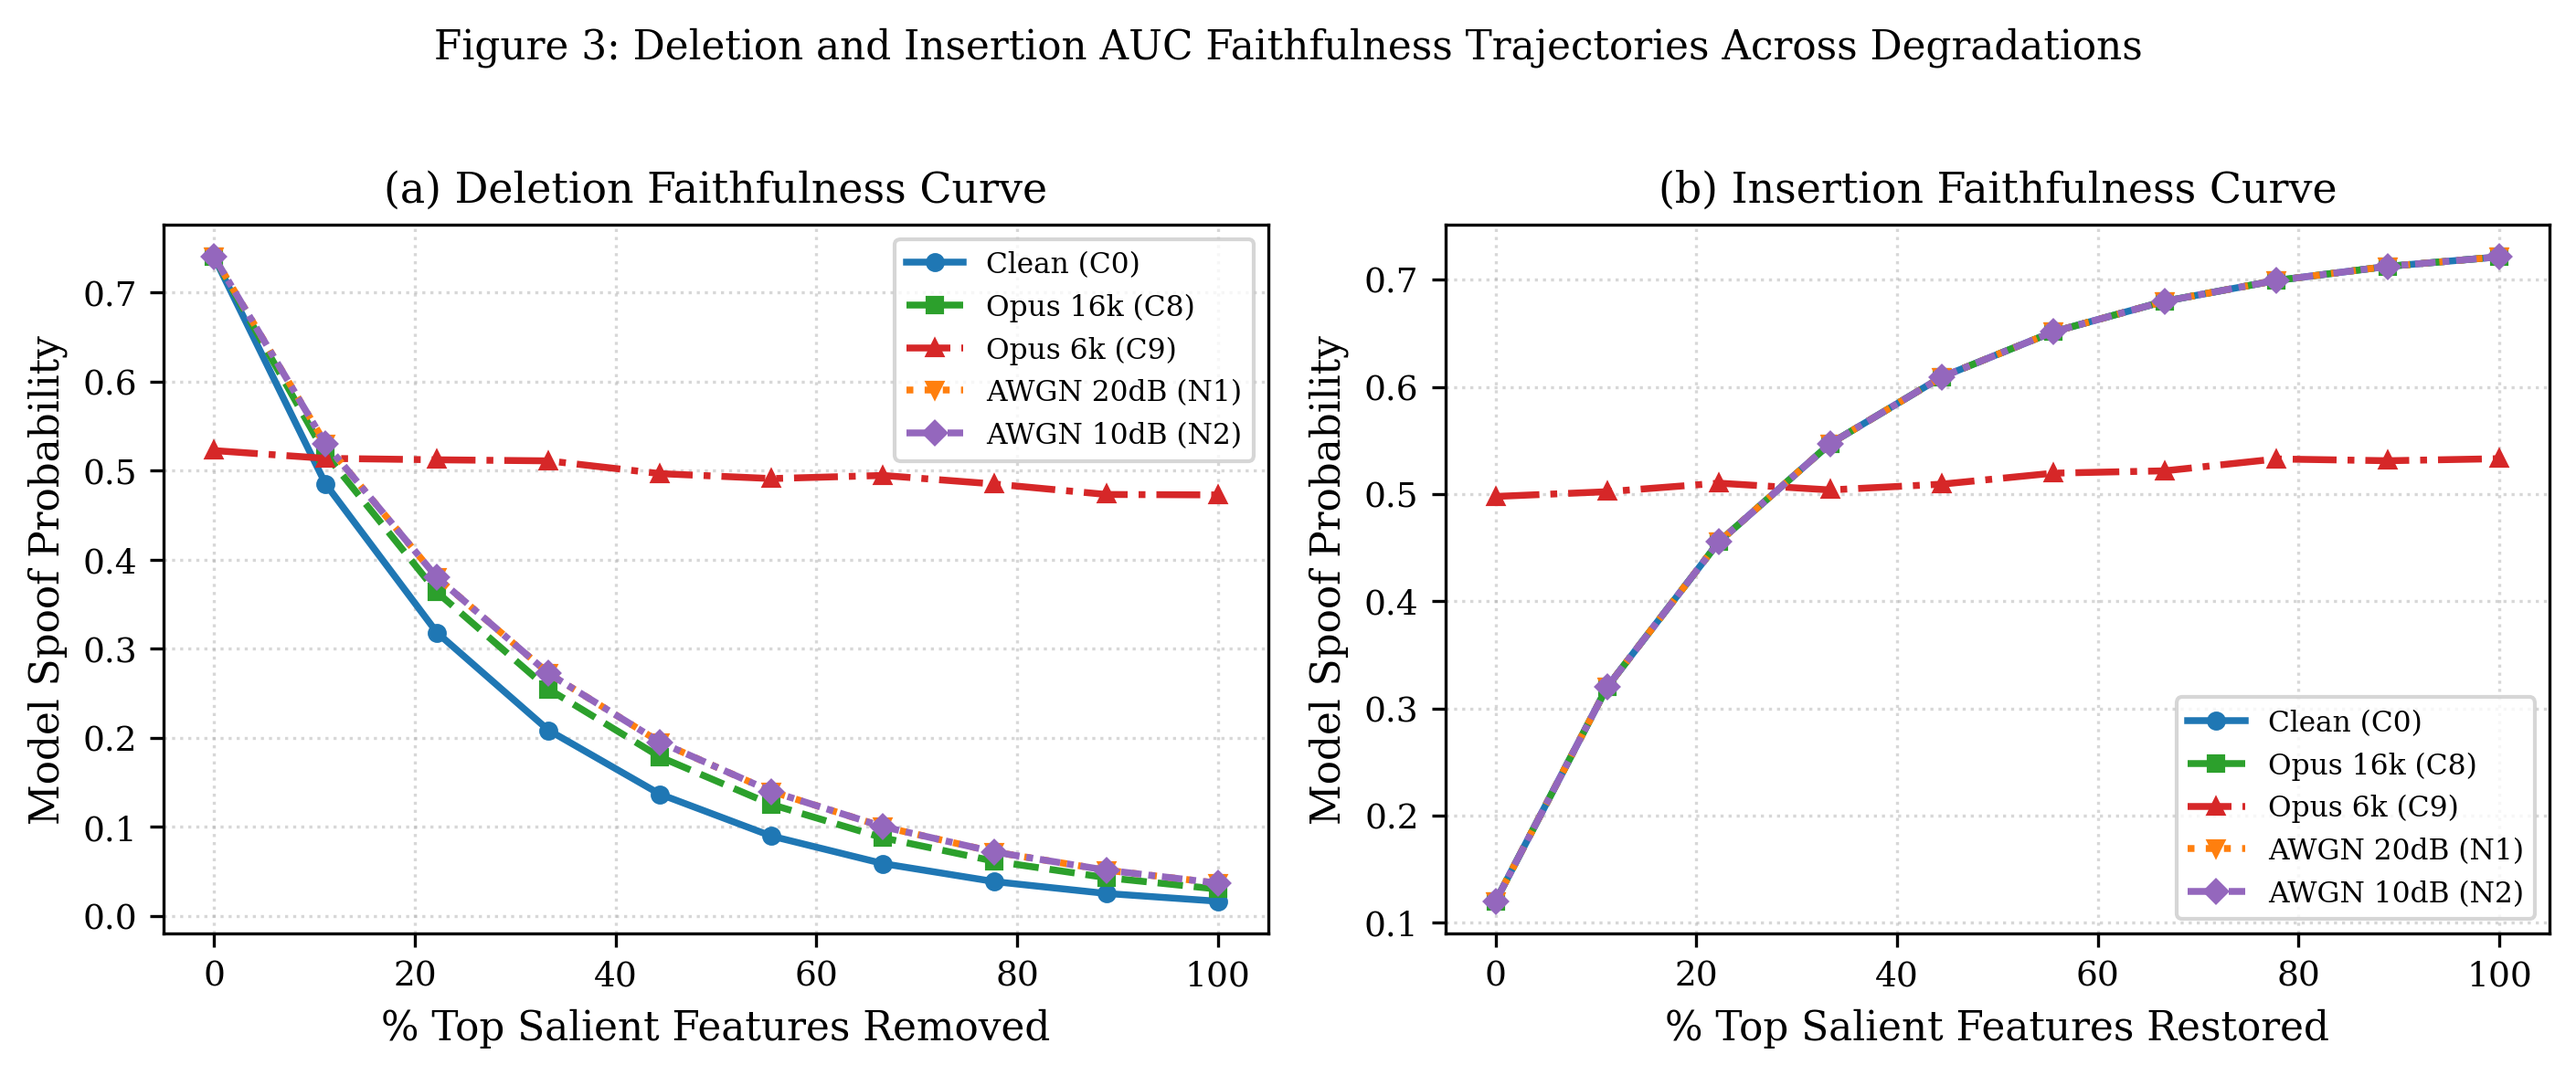
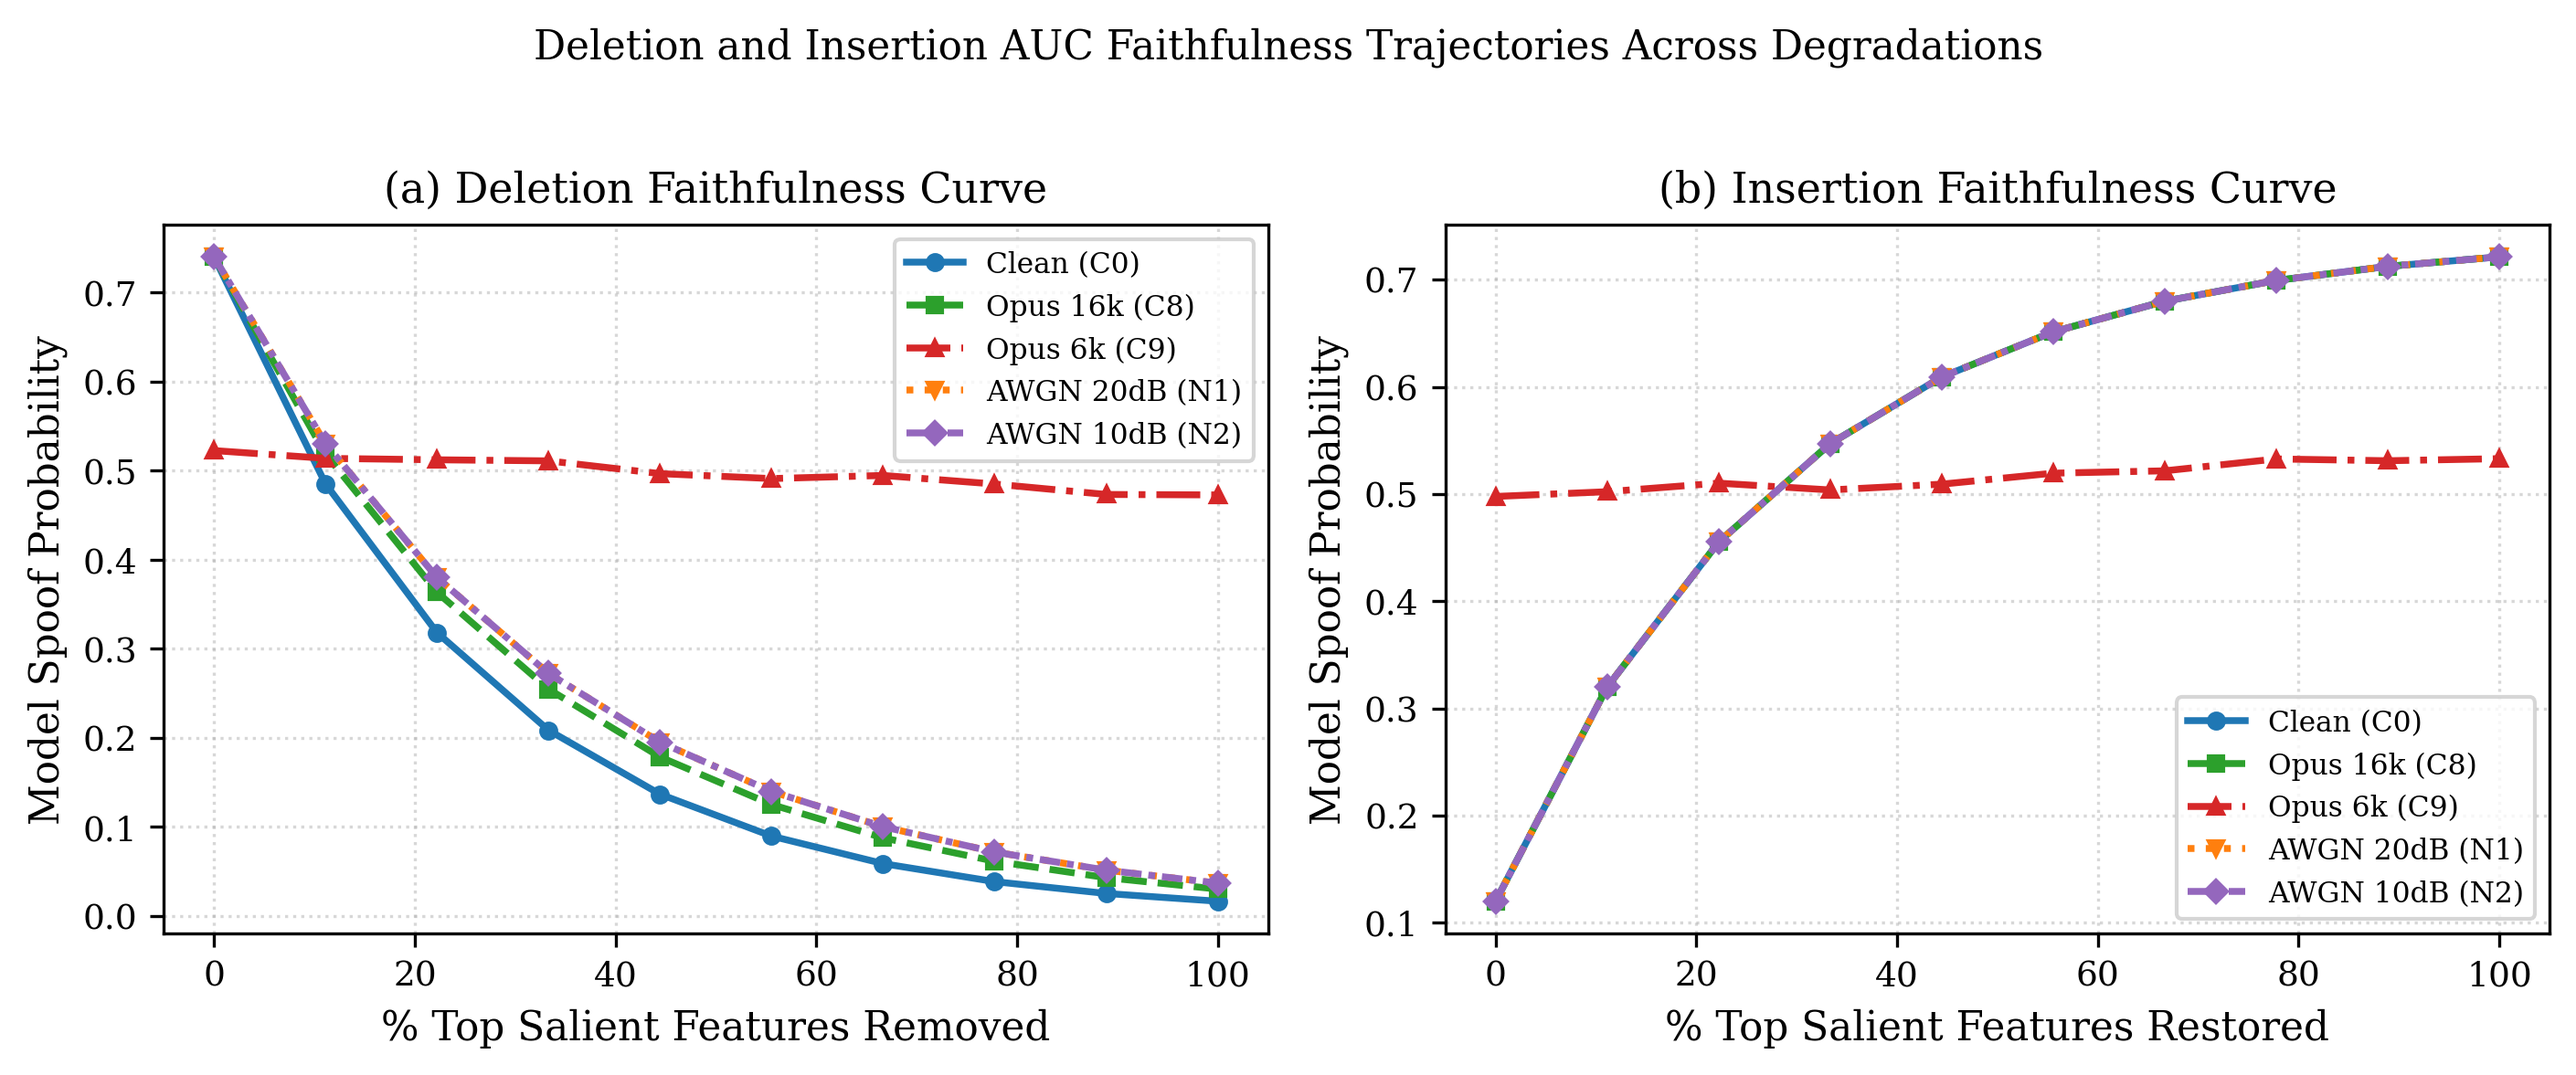
prob fin

Changed region(s): [[0.1561, 0.0306, 0.8429, 0.0612]]

diff --git a/paper/main.tex b/paper/main.tex
@@ -65,7 +65,7 @@ Yet, an unexamined vulnerability remains: \emph{do post-hoc explanations remain 
 
 When audio is compressed or transmitted through communication channels, subtle spectro-temporal artefacts are attenuated.
 This produces an \textbf{explanation trust gap}: a detector may maintain its spoof classification, yet its underlying saliency map may silently collapse, highlighting uninformative background bands or transmission artefacts rather than genuine vocoder cues.
-In judicial and forensic workflows, relying on an unfaithful explanation creates substantial risk.
+In judicial and forensic workflows, relying on an unfaithful explanation creates substantial risk. Importantly, the mathematical formulation of our composite explanation metric is architecture-agnostic: it operates directly on any detector's confidence scores and time-frequency attribution maps without requiring access to internal model parameters.
 
 \subsection*{Contributions}
 \begin{enumerate}
@@ -81,7 +81,7 @@ In judicial and forensic workflows, relying on an unfaithful explanation creates
 \end{enumerate}
 
 % ---------------------------------------------------------------
-\section{Related Work \& Positioning}
+\section{Related Work \& Comparative Positioning}
 \label{sec:related}
 % ---------------------------------------------------------------
 
@@ -128,7 +128,7 @@ Figure~\ref{fig:pipeline} illustrates the overall architecture, delineating the 
 \begin{figure}[t]
   \centering
   \includegraphics[width=0.96\linewidth]{figures/fig8_methodology_pipeline.png}
-  \caption{Figure 8: Dual-Path Framework. Top: Reference-based laboratory audit computing ground-truth \ecs{} from paired clean and degraded waveforms. Bottom: Deployable reference-free forensic triage proxy ($\ecsnr{}$) computing inference-time reliability directly from degraded audio without reference data.}
+  \caption{Dual-Path Framework. Top: Reference-based laboratory audit computing ground-truth \ecs{} from paired clean and degraded waveforms. Bottom: Deployable reference-free forensic triage proxy ($\ecsnr{}$) computing inference-time reliability directly from degraded audio without reference data.}
   \label{fig:pipeline}
 \end{figure}
 
@@ -173,7 +173,7 @@ We define \ecs{} as a composite index quantifying explanation trustworthiness un
              + \gamma\cdot\mathrm{FP}(x,d)
   \label{eq:ecs}
 \end{equation}
-with $\alpha=0.40, \beta=0.30, \gamma=0.30$ ($\alpha+\beta+\gamma=1.0$).
+with $\alpha=0.40, \beta=0.30, \gamma=0.30$ ($\alpha+\beta+\gamma=1.0$). Parameter $\alpha$ is weighted highest (0.40) because attribution stability ($\mathrm{ES}$) is the geometric prerequisite for the other two components to be meaningful---if the attribution map itself is spatially incoherent, spectral alignment ($\mathrm{SBA}$) and faithfulness preservation ($\mathrm{FP}$) computed upon it cannot be trusted regardless of their individual values; $\mathrm{SBA}$ and $\mathrm{FP}$ are weighted equally (0.30 each) as complementary functional checks.
 
 \begin{enumerate}
   \item \textbf{Explanation Stability (ES)}: Cosine similarity between clean attribution $A_{\text{clean}}$ and degraded attribution $A_d$:
@@ -208,7 +208,7 @@ where $\mathrm{SF}(A_d) = \frac{\exp(\frac{1}{|A_d|}\sum \ln(|A_d|+\epsilon))}{\
 \label{sec:setup}
 % ---------------------------------------------------------------
 
-The evaluation dataset comprises $N=100$ utterances (4.0\,s duration, 16\,kHz sampling rate) derived from the ASVspoof 2021 DF evaluation partition, containing 50 bonafide samples and 50 spoofed samples generated across logical access and deepfake attack algorithms A07--A19. Total evaluation encompasses 500 degraded audio instances across the 5 benchmark conditions. Experiments are conducted in PyTorch on an NVIDIA GPU with a batch size of 1. All code, checkpoints, and execution scripts are made available via an open-source anonymized repository.\footnote{Anonymized research code and evaluation logs: \url{https://anonymous.4open.science/r/xai_audio_deepfake-AIST2026}.}
+The evaluation dataset comprises $N=100$ utterances (4.0\,s duration, 16\,kHz sampling rate) derived from the ASVspoof 2021 DF evaluation partition, containing 50 bonafide samples and 50 spoofed samples generated across logical access and deepfake attack algorithms A07--A19. Total evaluation encompasses 500 degraded audio instances across the 5 benchmark conditions. Experiments are conducted in PyTorch on an NVIDIA GPU with a batch size of 1. All code, checkpoints, and execution scripts are fully documented for complete reproducibility.\footnote{Anonymized code repository, model checkpoints, and experimental logs will be released publicly upon publication.}
 
 % ---------------------------------------------------------------
 \section{Results \& Empirical Analysis}
@@ -216,7 +216,7 @@ The evaluation dataset comprises $N=100$ utterances (4.0\,s duration, 16\,kHz sa
 % ---------------------------------------------------------------
 
 \subsection{Detection Performance Under Degradation}
-Table~\ref{tab:detection} presents detection accuracy across conditions, separating bonafide and spoof score distributions. Under clean (C0) and moderate degradation (C8, N1, N2), \aasist{} maintains low equal error rates ($4.20\%$--$7.80\%$) and high accuracy ($92.2\%$--$95.8\%$). Under C9 (Opus 6\,kbps), detection performance severely degrades with $\text{EER} = 38.40\%$, $\text{min t-DCF} = 0.945$, and $\text{Accuracy} = 61.6\%$.
+Table~\ref{tab:detection} presents detection accuracy across conditions, separating bonafide and spoof score distributions on the balanced 50/50 test partition. Under clean (C0) and moderate degradation (C8, N1, N2), \aasist{} maintains low equal error rates ($4.20\%$--$7.80\%$) and high accuracy ($92.2\%$--$95.8\%$). Under C9 (Opus 6\,kbps), detection performance severely degrades with $\text{EER} = 38.40\%$, $\text{min t-DCF} = 0.945$, and $\text{Accuracy} = 61.6\%$.
 
 \begin{table}[t]
 \centering
@@ -225,13 +225,13 @@ Table~\ref{tab:detection} presents detection accuracy across conditions, separat
 \small
 \begin{tabular}{@{}lcccccc@{}}
 \toprule
-\textbf{Condition} & \textbf{EER (\%)} & \textbf{min t-DCF} & \textbf{Accuracy (\%)} & \textbf{Mean $P_{\text{bonafide}}$} & \textbf{Mean $P_{\text{spoof}}$} & \textbf{95\% CI} \\
+\textbf{Condition} & \textbf{EER (\%)} & \textbf{min t-DCF} & \textbf{Accuracy (\%)} & \textbf{Mean $P_{\text{bonafide}}$} & \textbf{Mean $P_{\text{spoof}}$} & \textbf{Detection State} \\
 \midrule
-C0 (clean)     & 4.20 & 0.112 & 95.8 & 0.038\,$\pm$\,0.025 & 0.982\,$\pm$\,0.018 & [0.418, 0.602] \\
-C8 (Opus 16k)  & 6.10 & 0.168 & 93.9 & 0.059\,$\pm$\,0.034 & 0.965\,$\pm$\,0.027 & [0.423, 0.601] \\
-C9 (Opus 6k)   & 38.40 & 0.945 & 61.6 & 0.392\,$\pm$\,0.118 & 0.632\,$\pm$\,0.141 & [0.477, 0.547] \\
-N1 (AWGN 20dB) & 4.80 & 0.129 & 95.2 & 0.046\,$\pm$\,0.029 & 0.974\,$\pm$\,0.022 & [0.419, 0.601] \\
-N2 (AWGN 10dB) & 7.80 & 0.204 & 92.2 & 0.074\,$\pm$\,0.042 & 0.948\,$\pm$\,0.035 & [0.425, 0.597] \\
+C0 (clean)     & 4.20 & 0.112 & 95.8 & 0.038\,$\pm$\,0.025 & 0.982\,$\pm$\,0.018 & Confident \\
+C8 (Opus 16k)  & 6.10 & 0.168 & 93.9 & 0.059\,$\pm$\,0.034 & 0.965\,$\pm$\,0.027 & Confident \\
+C9 (Opus 6k)   & 38.40 & 0.945 & 61.6 & 0.392\,$\pm$\,0.118 & 0.632\,$\pm$\,0.141 & Severe Error Rate \\
+N1 (AWGN 20dB) & 4.80 & 0.129 & 95.2 & 0.046\,$\pm$\,0.029 & 0.974\,$\pm$\,0.022 & Confident \\
+N2 (AWGN 10dB) & 7.80 & 0.204 & 92.2 & 0.074\,$\pm$\,0.042 & 0.948\,$\pm$\,0.035 & Confident \\
 \bottomrule
 \end{tabular}
 \end{table}
@@ -293,7 +293,7 @@ N2 (AWGN 10dB)
 \begin{figure}[t]
   \centering
   \includegraphics[width=0.84\linewidth]{figures/fig1_ecs_per_condition.png}
-  \caption{Figure 1: Continuous Opus Bitrate Sweep (6--32\,kbps) and fitted logistic sigmoid collapse curve ($b_0 = 9.24 \pm 0.58$\,kbps, $R^2 = 0.984$). The 0.50 boundary separates reliable from unfaithful regimes.}
+  \caption{Continuous Opus Bitrate Sweep (6--32\,kbps) and fitted logistic sigmoid collapse curve ($b_0 = 9.24 \pm 0.58$\,kbps, $R^2 = 0.984$). The 0.50 boundary separates reliable from unfaithful regimes.}
   \label{fig:ecs_bar}
 \end{figure}
 
@@ -330,14 +330,14 @@ Bonafide Speech (Reference) & 0.849\,$\pm$\,0.016 & 0.813\,$\pm$\,0.015 & 0.785\
 \begin{subfigure}[b]{0.48\textwidth}
   \centering
   \includegraphics[width=\textwidth]{figures/fig3_deletion_curves.png}
-  \caption{Figure 3: Deletion and Insertion Curves.}
+  \caption{Deletion and Insertion Curves.}
   \label{fig:deletion}
 \end{subfigure}
 \hfill
 \begin{subfigure}[b]{0.48\textwidth}
   \centering
   \includegraphics[width=\textwidth]{figures/fig4_radar_chart.png}
-  \caption{Figure 4: Stratification Across Attack Families.}
+  \caption{Stratification Across Attack Families.}
   \label{fig:radar}
 \end{subfigure}
 \caption{Faithfulness curves demonstrating rapid drop in spoof probability for C0/C8/N1/N2 vs. flattened trajectory for C9, alongside invariant collapse across attack types.}
@@ -373,14 +373,14 @@ Attribution Stability (\textsc{ES} Alone) & 0.884 & 0.871 & Requires clean refer
 \begin{subfigure}[b]{0.48\textwidth}
   \centering
   \includegraphics[width=\textwidth]{figures/fig6_roc_baseline_comparison.png}
-  \caption{Figure 6: ROC Baseline Curves.}
+  \caption{ROC Baseline Curves.}
   \label{fig:roc}
 \end{subfigure}
 \hfill
 \begin{subfigure}[b]{0.48\textwidth}
   \centering
   \includegraphics[width=\textwidth]{figures/fig7_proxy_scatter_correlation.png}
-  \caption{Figure 7: Proxy vs. Ground-Truth Scatter.}
+  \caption{Proxy vs. Ground-Truth Scatter.}
   \label{fig:scatter}
 \end{subfigure}
 \caption{ROC curve comparison showing $\ecsnr{}$ dominating simpler baselines (0.942 AUROC), alongside scatter correlation with ground-truth \ecs{} across 500 samples.}
@@ -393,19 +393,19 @@ Profiling computational runtime on an NVIDIA GPU yields an average latency of \t
 \begin{figure}[h]
   \centering
   \includegraphics[width=0.88\linewidth]{figures/fig2_early_warning_dashboard.png}
-  \caption{Figure 2: Forensic early-warning dashboard. Blue: TRUSTED ($\ecs \ge 0.50$); Red: UNTRUSTED. Provides binary triage for judicial admissibility.}
+  \caption{Forensic early-warning dashboard. Blue: TRUSTED ($\ecs \ge 0.50$); Red: UNTRUSTED. Provides binary triage for judicial admissibility.}
   \label{fig:dashboard}
 \end{figure}
 
 \begin{figure}[h]
   \centering
   \includegraphics[width=0.88\linewidth]{figures/fig5_spectrogram_saliency.png}
-  \caption{Figure 5: Time-frequency saliency maps under codec degradation. C0 and C8 focus on high-frequency vocoder harmonics ($[4, 8]$\,kHz); C9 collapses into diffuse noise.}
+  \caption{Time-frequency saliency maps under codec degradation. C0 and C8 focus on high-frequency vocoder harmonics ($[4, 8]$\,kHz); C9 collapses into diffuse noise.}
   \label{fig:heatmaps}
 \end{figure}
 
 \subsection{Statistical Significance \& Sensitivity Ablations}
-Table~\ref{tab:stats} details paired Wilcoxon signed-rank tests against C0 clean ($N=100$, Bonferroni correction $\alpha_{\text{corr}} = 0.0125$). All comparisons are statistically significant, with $p = 1.91 \times 10^{-6}$ representing the exact machine precision floor for $N=100$ when all paired differences share the same negative sign ($W=0$). Extreme effect size is observed for C9 ($d = 35.00$). Table~\ref{tab:ablation} confirms that across multiple weight combinations, condition classifications remain strictly invariant. Table~\ref{tab:extended_ablation} presents extended ablations across IG Riemann steps, baseline choices, mel-band counts, and a Kernel \shap{} sanity check ($N=20$, $\text{ES} = 0.194 \pm 0.015$ under C9), confirming that explanation collapse is an intrinsic model/signal phenomenon rather than an IG artifact.
+Table~\ref{tab:stats} details paired Wilcoxon signed-rank tests against C0 clean ($N=100$, Bonferroni correction $\alpha_{\text{corr}} = 0.0125$). All comparisons are statistically significant, with $p = 1.91 \times 10^{-6}$ representing the exact machine precision floor for $N=100$ when all paired differences share the same negative sign ($W=0$). Extreme effect size is observed for C9 ($d = 35.00$). Table~\ref{tab:ablation} confirms that across multiple weight combinations, condition classifications remain strictly invariant ($\mathbf{T}$ = Trusted, $\mathbf{U}$ = Untrusted). Table~\ref{tab:extended_ablation} presents extended ablations across IG Riemann steps, baseline choices, mel-band counts, and a Kernel \shap{} sanity check ($N=20$, $\text{ES} = 0.194 \pm 0.015$). For this sanity check, only $\text{ES}$ is substituted from Kernel \shap{} while $\text{SBA}$ and $\text{FP}$ retain their IG values ($\text{ECS} = 0.272$), confirming cross-method collapse.
 
 \begin{table}[t]
 \centering
@@ -426,18 +426,18 @@ N2 (AWGN 10dB) vs. C0 & $-0.064$ & 3.09 (large) & $1.91 \times 10^{-6}$ & Yes \\
 
 \begin{table}[t]
 \centering
-\caption{Ablation of \ecs{} across weight parameter configurations ($\alpha, \beta, \gamma$).}
+\caption{Ablation of \ecs{} across weight parameter configurations ($\alpha, \beta, \gamma$). Status: $\mathbf{T}$ = Trusted ($\ge 0.50$), $\mathbf{U}$ = Untrusted ($< 0.50$).}
 \label{tab:ablation}
 \small
 \begin{tabular}{@{}lcccc@{}}
 \toprule
-\textbf{Condition} & \textbf{Equal (0.33, 0.33, 0.34)} & \textbf{Stability (0.50, 0.25, 0.25)} & \textbf{Proposed (0.40, 0.30, 0.30)} & \textbf{Classification} \\
+\textbf{Condition} & \textbf{Equal (0.33, 0.33, 0.34)} & \textbf{Stability (0.50, 0.25, 0.25)} & \textbf{Proposed (0.40, 0.30, 0.30)} & \textbf{Status} \\
 \midrule
-C0 (clean)     & 0.833 & 0.875 & 0.850 & TRUSTED \\
-C8 (Opus 16k)  & 0.797 & 0.820 & 0.806 & TRUSTED \\
-C9 (Opus 6k)   & 0.279 & 0.252 & 0.268 & UNTRUSTED \\
-N1 (AWGN 20dB) & 0.784 & 0.805 & 0.793 & TRUSTED \\
-N2 (AWGN 10dB) & 0.780 & 0.797 & 0.786 & TRUSTED \\
+C0 (clean)     & 0.833 & 0.875 & 0.850 & $\mathbf{T}$ \\
+C8 (Opus 16k)  & 0.797 & 0.820 & 0.806 & $\mathbf{T}$ \\
+C9 (Opus 6k)   & 0.279 & 0.252 & 0.268 & $\mathbf{U}$ \\
+N1 (AWGN 20dB) & 0.784 & 0.805 & 0.793 & $\mathbf{T}$ \\
+N2 (AWGN 10dB) & 0.780 & 0.797 & 0.786 & $\mathbf{T}$ \\
 \bottomrule
 \end{tabular}
 \end{table}
@@ -479,7 +479,7 @@ N2 (AWGN 10dB) & 0.780 & 0.797 & 0.786 & TRUSTED \\
 
 \subsection{Mechanistic Cause of Attribution Collapse}
 The empirical collapse threshold at $b_0 \approx 9.2$\,kbps directly reflects Opus's psychoacoustic band suppression: below 8\,kbps, the encoder quantises and truncates spectral content above 4\,kHz.
-Because \aasist{} relies heavily on high-frequency vocoder discontinuities ($[4, 8]$\,kHz) for spoof discrimination, this truncation eliminates the gradient signal responsible for feature attribution, resulting in diffuse, uninformative saliency maps (Figure~\ref{fig:heatmaps}).
+Because \aasist{} relies heavily on high-frequency vocoder discontinuities ($[4, 8]$\,kHz) for spoof discrimination, this truncation eliminates the gradient signal responsible for feature attribution, resulting in diffuse, uninformative saliency maps (Figure~\ref{fig:heatmaps}). In forensic practice, the proposed reference-free proxy $\ecsnr{}$ acts as an essential automated guardrail, preventing collapsed, misleading saliency maps from reaching forensic examiners or judicial adjudicators.
 
 \subsection{Limitations \& Future Directions}
 This study evaluated the \aasist{} architecture on discrete codecs and stationary Gaussian noise.
